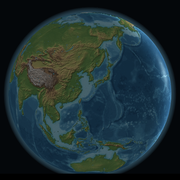
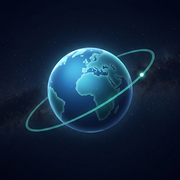
Add files via upload

diff --git a/index.html b/index.html
@@ -1,4 +1,4 @@
-<!doctype html><html lang="ko"><head><meta charset="utf-8"><meta name="viewport" content="width=device-width,initial-scale=1,viewport-fit=cover,user-scalable=no"><meta name="theme-color" content="#04070a"><meta name="mobile-web-app-capable" content="yes"><meta name="apple-mobile-web-app-capable" content="yes"><meta name="apple-mobile-web-app-status-bar-style" content="black-translucent"><meta name="apple-mobile-web-app-title" content="시간 지구본"><link rel="manifest" href="manifest.webmanifest"><link rel="icon" href="icon-192.png"><link rel="apple-touch-icon" href="apple-touch-icon.png"><style>html,body{margin:0;height:100%;overscroll-behavior:none;background:#04070a}</style></head><body><title>시간 지구본</title>
+<!doctype html><html lang="ko"><head><meta charset="utf-8"><meta name="viewport" content="width=device-width,initial-scale=1,viewport-fit=cover,user-scalable=no"><meta name="theme-color" content="#04070a"><meta name="mobile-web-app-capable" content="yes"><meta name="apple-mobile-web-app-capable" content="yes"><meta name="apple-mobile-web-app-status-bar-style" content="black-translucent"><meta name="apple-mobile-web-app-title" content="시간 지구본"><link rel="manifest" href="manifest.webmanifest"><link rel="icon" href="favicon-32.png" sizes="32x32"><link rel="icon" href="icon-192.png" sizes="192x192"><link rel="apple-touch-icon" href="apple-touch-icon.png"><link rel="apple-touch-startup-image" media="(device-width: 430px) and (device-height: 932px) and (-webkit-device-pixel-ratio: 3) and (orientation: portrait)" href="splash-1290x2796.jpg"><link rel="apple-touch-startup-image" media="(device-width: 393px) and (device-height: 852px) and (-webkit-device-pixel-ratio: 3) and (orientation: portrait)" href="splash-1179x2556.jpg"><link rel="apple-touch-startup-image" media="(device-width: 428px) and (device-height: 926px) and (-webkit-device-pixel-ratio: 3) and (orientation: portrait)" href="splash-1284x2778.jpg"><link rel="apple-touch-startup-image" media="(device-width: 390px) and (device-height: 844px) and (-webkit-device-pixel-ratio: 3) and (orientation: portrait)" href="splash-1170x2532.jpg"><link rel="apple-touch-startup-image" media="(device-width: 375px) and (device-height: 812px) and (-webkit-device-pixel-ratio: 3) and (orientation: portrait)" href="splash-1125x2436.jpg"><link rel="apple-touch-startup-image" media="(device-width: 414px) and (device-height: 896px) and (-webkit-device-pixel-ratio: 3) and (orientation: portrait)" href="splash-1242x2688.jpg"><link rel="apple-touch-startup-image" media="(device-width: 414px) and (device-height: 896px) and (-webkit-device-pixel-ratio: 2) and (orientation: portrait)" href="splash-828x1792.jpg"><link rel="apple-touch-startup-image" media="(device-width: 375px) and (device-height: 667px) and (-webkit-device-pixel-ratio: 2) and (orientation: portrait)" href="splash-750x1334.jpg"><style>html,body{margin:0;height:100%;overscroll-behavior:none;background:#04070a}</style></head><body><title>시간 지구본</title>
 <link rel="preconnect" href="https://fonts.googleapis.com">
 <link rel="stylesheet" href="https://fonts.googleapis.com/css2?family=Gowun+Batang:wght@400;700&family=IBM+Plex+Sans+KR:wght@400;500;600&display=swap">
 <style>
@@ -318,7 +318,7 @@ body.ui-off #gHud{transform:translate(-50%,-140%);opacity:0;pointer-events:none}
 #moonView .mvBtns{display:flex;flex-wrap:wrap;gap:5px;justify-content:center;margin:6px 0}#moonView .step{border-color:rgba(255,255,255,.18);color:#e8eaec}
 #mvScrub{width:120px;height:30px;border:1px solid rgba(255,255,255,.18);border-radius:8px;cursor:ew-resize;touch-action:none;background:repeating-linear-gradient(90deg,rgba(255,255,255,.55) 0 1px,transparent 1px 6px),repeating-linear-gradient(90deg,rgba(255,210,122,.9) 0 2px,transparent 2px 48px);background-size:6px 40%,48px 70%;background-repeat:repeat-x;background-position:0 100%,0 100%;align-self:center}
 #moonView .note{font-size:11px;color:#8e979d;margin-top:6px}
-#loading{position:fixed;inset:0;display:grid;place-items:center;z-index:30;background:var(--space);font-size:14px;color:#9fb0b3}
+#loading{position:fixed;inset:0;display:grid;place-items:center;z-index:30;background:#030514 url(splash.jpg) center 56%/cover no-repeat;font-size:14px;color:#9fb0b3}#loading .ldBox{position:absolute;left:0;right:0;top:72%;text-align:center}#loading .ldT{font-size:clamp(26px,8vw,40px);font-weight:700;color:#ecf2f0;letter-spacing:.02em}#loading .ldS{margin-top:4px;font-size:13px;color:#96afac}#loading .ldM{margin-top:18px;font-size:12px;color:#7f9794}@media (orientation:landscape){#loading{background-image:none}#loading::before{content:'';position:absolute;inset:0;background:url(splash.jpg) center/auto 100% no-repeat;-webkit-mask-image:linear-gradient(90deg,transparent calc(50% - 23vh),#000 calc(50% - 13vh),#000 calc(50% + 13vh),transparent calc(50% + 23vh));mask-image:linear-gradient(90deg,transparent calc(50% - 23vh),#000 calc(50% - 13vh),#000 calc(50% + 13vh),transparent calc(50% + 23vh))}}#loading>div:not(.ldBox){background:rgba(5,8,15,.82);border-radius:14px}
 @media (max-width:400px){ #timeInput{display:none} }
 @media (max-width:640px){
   #cosmo .cosCard{max-height:42vh;padding:10px 12px}
@@ -338,7 +338,7 @@ body.ui-off #gHud{transform:translate(-50%,-140%);opacity:0;pointer-events:none}
 @media (prefers-reduced-motion: reduce){ *{scroll-behavior:auto} }
 </style>
 
-<div id="sizer" aria-hidden="true"></div><div id="loading">지구를 불러오는 중…</div>
+<div id="sizer" aria-hidden="true"></div><div id="loading"><div class="ldBox"><div class="ldT">시간 지구본</div><div class="ldS">빅뱅부터 오늘까지</div><div class="ldM" id="ldMsg">지구를 불러오는 중…</div></div></div>
 <div id="stage"><div id="tone" aria-hidden="true"></div><canvas id="gl" aria-label="지구본. 드래그로 회전, 휠·핀치로 확대, 탭하면 그 자리의 정보"></canvas><canvas id="ov"></canvas></div>
 <div id="tip" hidden></div>
 
@@ -666,8 +666,30 @@ function rulerEN(name,pol){ var bare=/^[가-힣]{2,3}$/.test(name);
 var canvas=$('#gl'), ovc=$('#ov'), ov=ovc.getContext('2d');
 var LITE=(function(){ try{ return matchMedia('(pointer:coarse)').matches||Math.min(screen.width,screen.height)<700||/lite=1/.test(location.search); }catch(e){ return false; } })();
 var renderer;
-try{ renderer=new THREE.WebGLRenderer({canvas:canvas,antialias:!LITE,alpha:false,powerPreference:LITE?'low-power':'default'}); }
-catch(e){ window.__fail('이 기기·브라우저에서 3D(WebGL)를 켤 수 없어. ('+e.message+')'); throw e; }
+/* v71 휴대폰에서 'Error creating WebGL context' — 조건을 하나씩 낮춰 가며 다시 시도(안티앨리어싱·고성능 요청·WebGL2 순으로 내려놓음) */
+(function(){
+  var tries=[{antialias:!LITE,powerPreference:LITE?'low-power':'default'},
+             {antialias:false,powerPreference:'low-power'},
+             {antialias:false,powerPreference:'default',failIfMajorPerformanceCaveat:false,stencil:false,precision:'mediump'}];
+  var errs=[];
+  function fresh(){ var c=canvas.cloneNode(false); canvas.parentNode.replaceChild(c,canvas); canvas=c; }
+  for(var i=0;i<tries.length&&!renderer;i++){
+    try{ if(i) fresh(); var o=tries[i]; o.canvas=canvas; o.alpha=false; renderer=new THREE.WebGLRenderer(o); }catch(e){ errs.push(e.message); }
+  }
+  if(!renderer){   /* WebGL1을 직접 집어서 넘겨 봄 */
+    try{ fresh(); var at={antialias:false,alpha:false,depth:true,stencil:false,powerPreference:'low-power',failIfMajorPerformanceCaveat:false};
+      var gl=canvas.getContext('webgl',at)||canvas.getContext('experimental-webgl',at);
+      if(gl) renderer=new THREE.WebGLRenderer({canvas:canvas,context:gl,antialias:false,alpha:false}); else errs.push('webgl1 null');
+    }catch(e){ errs.push(e.message); }
+  }
+  if(renderer){ if(errs.length){ LITE=true; console.warn('WebGL 낮춘 조건으로 켬:',errs); } return; }
+  var ua=navigator.userAgent, inapp=/KAKAOTALK|NAVER|Instagram|FBAN|FBAV|Line\/|DaumApps|everytimeApp|; wv\)/i.test(ua);
+  var probe=document.createElement('canvas'), has=['webgl2','webgl','experimental-webgl'].filter(function(t){ try{ return !!probe.getContext(t); }catch(e){ return false; } });
+  var tip=inapp?'카톡·네이버 같은 앱 안의 브라우저로 열린 것 같아. 오른쪽 위 ⋮(또는 공유) → "다른 브라우저로 열기"로 크롬·사파리에서 열어 줘.'
+     :'크롬이면 주소창에 chrome://flags 를 열어 "Override software rendering list"를 Enabled로 바꾸거나, 다른 탭을 닫고 다시 열어 줘. 삼성 인터넷이면 크롬으로 열어 봐.';
+  window.__fail('이 브라우저에서 3D(WebGL)를 켤 수 없어. '+tip+' [진단: '+(has.join('/')||'WebGL 없음')+' · '+(inapp?'앱 내 브라우저':'일반 브라우저')+' · '+errs.length+'회 시도 · '+ua.replace(/^Mozilla\/5\.0 /,'').slice(0,90)+']');
+  throw new Error('webgl');
+})();
 var MAXTEX=renderer.capabilities.maxTextureSize||4096; if(MAXTEX<8192) LITE=LITE||MAXTEX<4096;
 renderer.setPixelRatio(Math.min(DPR,LITE?1.4:1.75));
 canvas.addEventListener('webglcontextlost',function(e){ e.preventDefault(); window.__fail('그래픽 메모리가 부족해서 3D가 꺼졌어. 새로고침하면 가벼운 모드로 다시 열 수 있어.'); try{ sessionStorage.setItem('tg_lite','1'); }catch(_){} });
@@ -8547,7 +8569,7 @@ document.addEventListener('pointerdown',function(e){ if(!e.target.closest('#sear
 window.addEventListener('resize',layout);
 
 /* ---------- 시작 ---------- */
-var bootN=0, bootT=9; function bootTick(n){ bootN++; window.__stage='자료 '+bootN+'/'+bootT+' ('+n+')'; var l=$('#loading'); if(l&&!l.querySelector('div')) l.textContent='지구를 불러오는 중… '+Math.round(bootN/bootT*100)+'%'; }
+var bootN=0, bootT=9; function bootTick(n){ bootN++; window.__stage='자료 '+bootN+'/'+bootT+' ('+n+')'; var l=document.getElementById('ldMsg'); if(l) l.textContent=(LANG==='en'?'Loading the globe… ':'지구를 불러오는 중… ')+Math.round(bootN/bootT*100)+'%'; }
 window.__stage='자료 요청';
 Promise.all(['index','places','land','geo','sky','geolabels','rivers'].map(function(n){ return getJSON('data/'+n+'.json').then(function(d){ bootTick(n); return d; }); }).concat([getJSON('data/events.json').catch(function(){return []}),getJSON('data/polinfo.json').catch(function(){return {}})]))
 .then(function(r){
@@ -8566,4 +8588,4 @@ Promise.all(['index','places','land','geo','sky','geolabels','rivers'].map(funct
 
 
 </script>
-<script>if("serviceWorker" in navigator) addEventListener("load",function(){ navigator.serviceWorker.register("sw.js?v=adb2a69a92"); });</script></body></html>
+<script>if("serviceWorker" in navigator) addEventListener("load",function(){ navigator.serviceWorker.register("sw.js?v=f5b35f0c83"); });</script></body></html>

diff --git a/sw.js b/sw.js
@@ -1,5 +1,5 @@
 /* 시간 지구본 앱판: 첫 화면(index)은 늘 새로 받고, 무거운 자료(모델·그림·소리)는 한 번 받으면 기기에 보관 */
-const V='tg-adb2a69a92';
+const V='tg-f5b35f0c83';
 self.addEventListener('install',e=>self.skipWaiting());
 self.addEventListener('activate',e=>e.waitUntil(caches.keys().then(ks=>Promise.all(ks.filter(k=>k!==V).map(k=>caches.delete(k)))).then(()=>self.clients.claim())));
 self.addEventListener('fetch',e=>{ const u=new URL(e.request.url); if(e.request.method!=='GET'||u.origin!==location.origin) return;
